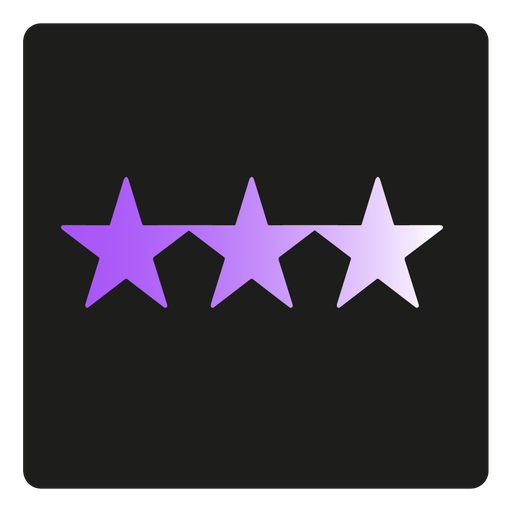
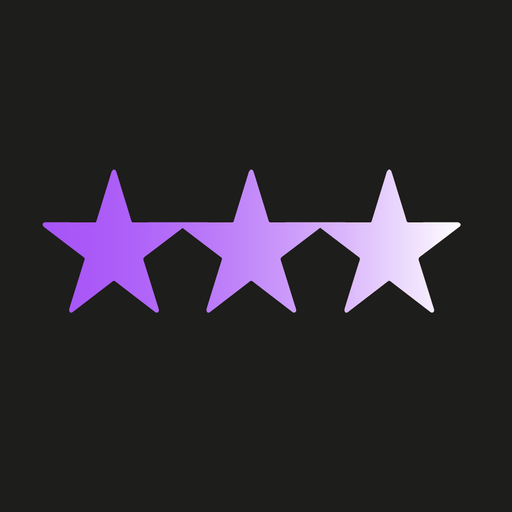
Cambios sutiles en los iconos

diff --git a/src/app/manifest.js b/src/app/manifest.js
@@ -1,5 +1,5 @@
-// Served at /manifest.webmanifest. Icons in /public/icons/ are provisional —
-// replace them keeping the same filenames and sizes.
+// Served at /manifest.webmanifest (the app's only manifest). Icons are resized from
+// public/icons/icon-1024.png (any) and public/icons/icon-maskable-1024.png (maskable).
 export default function manifest() {
   return {
     id: '/',
@@ -15,9 +15,10 @@ export default function manifest() {
     lang: 'es',
     dir: 'ltr',
     icons: [
-      { src: '/icons/icon-192.png',          sizes: '192x192', type: 'image/png', purpose: 'any' },
-      { src: '/icons/icon-512.png',          sizes: '512x512', type: 'image/png', purpose: 'any' },
-      { src: '/icons/icon-maskable-512.png', sizes: '512x512', type: 'image/png', purpose: 'maskable' },
+      { src: '/android-chrome-192x192.png', sizes: '192x192', type: 'image/png', purpose: 'any' },
+      { src: '/android-chrome-512x512.png', sizes: '512x512', type: 'image/png', purpose: 'any' },
+      { src: '/icons/maskable-192.png',     sizes: '192x192', type: 'image/png', purpose: 'maskable' },
+      { src: '/icons/maskable-512.png',     sizes: '512x512', type: 'image/png', purpose: 'maskable' },
     ],
   };
 }

diff --git a/src/app/layout.js b/src/app/layout.js
@@ -47,7 +47,7 @@ export const metadata = {
       { url: '/favicon-16x16.png', sizes: '16x16', type: 'image/png' },
     ],
     shortcut: '/favicon.ico',
-    apple:    { url: '/icons/apple-touch-icon.png', sizes: '180x180', type: 'image/png' },
+    apple:    { url: '/apple-touch-icon.png', sizes: '180x180', type: 'image/png' },
   },
   // Manifest link is injected automatically from src/app/manifest.js
   appleWebApp: {
